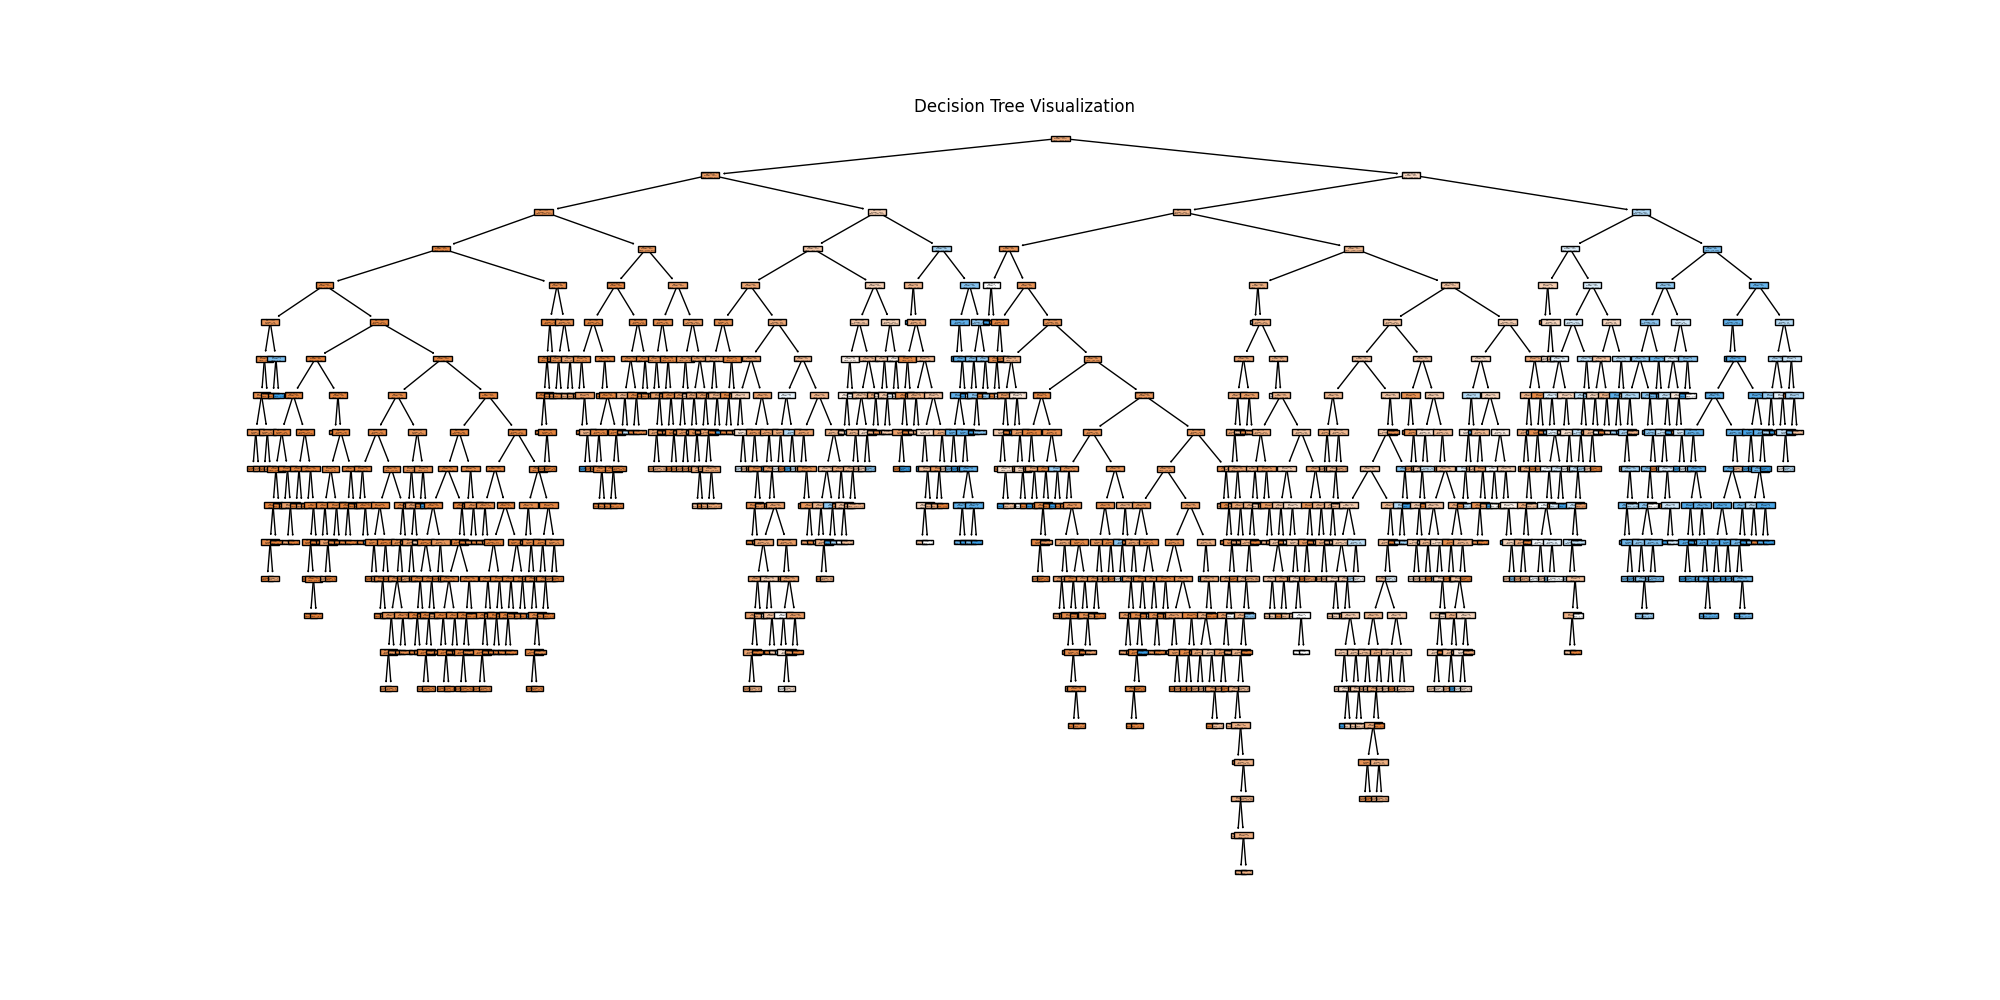
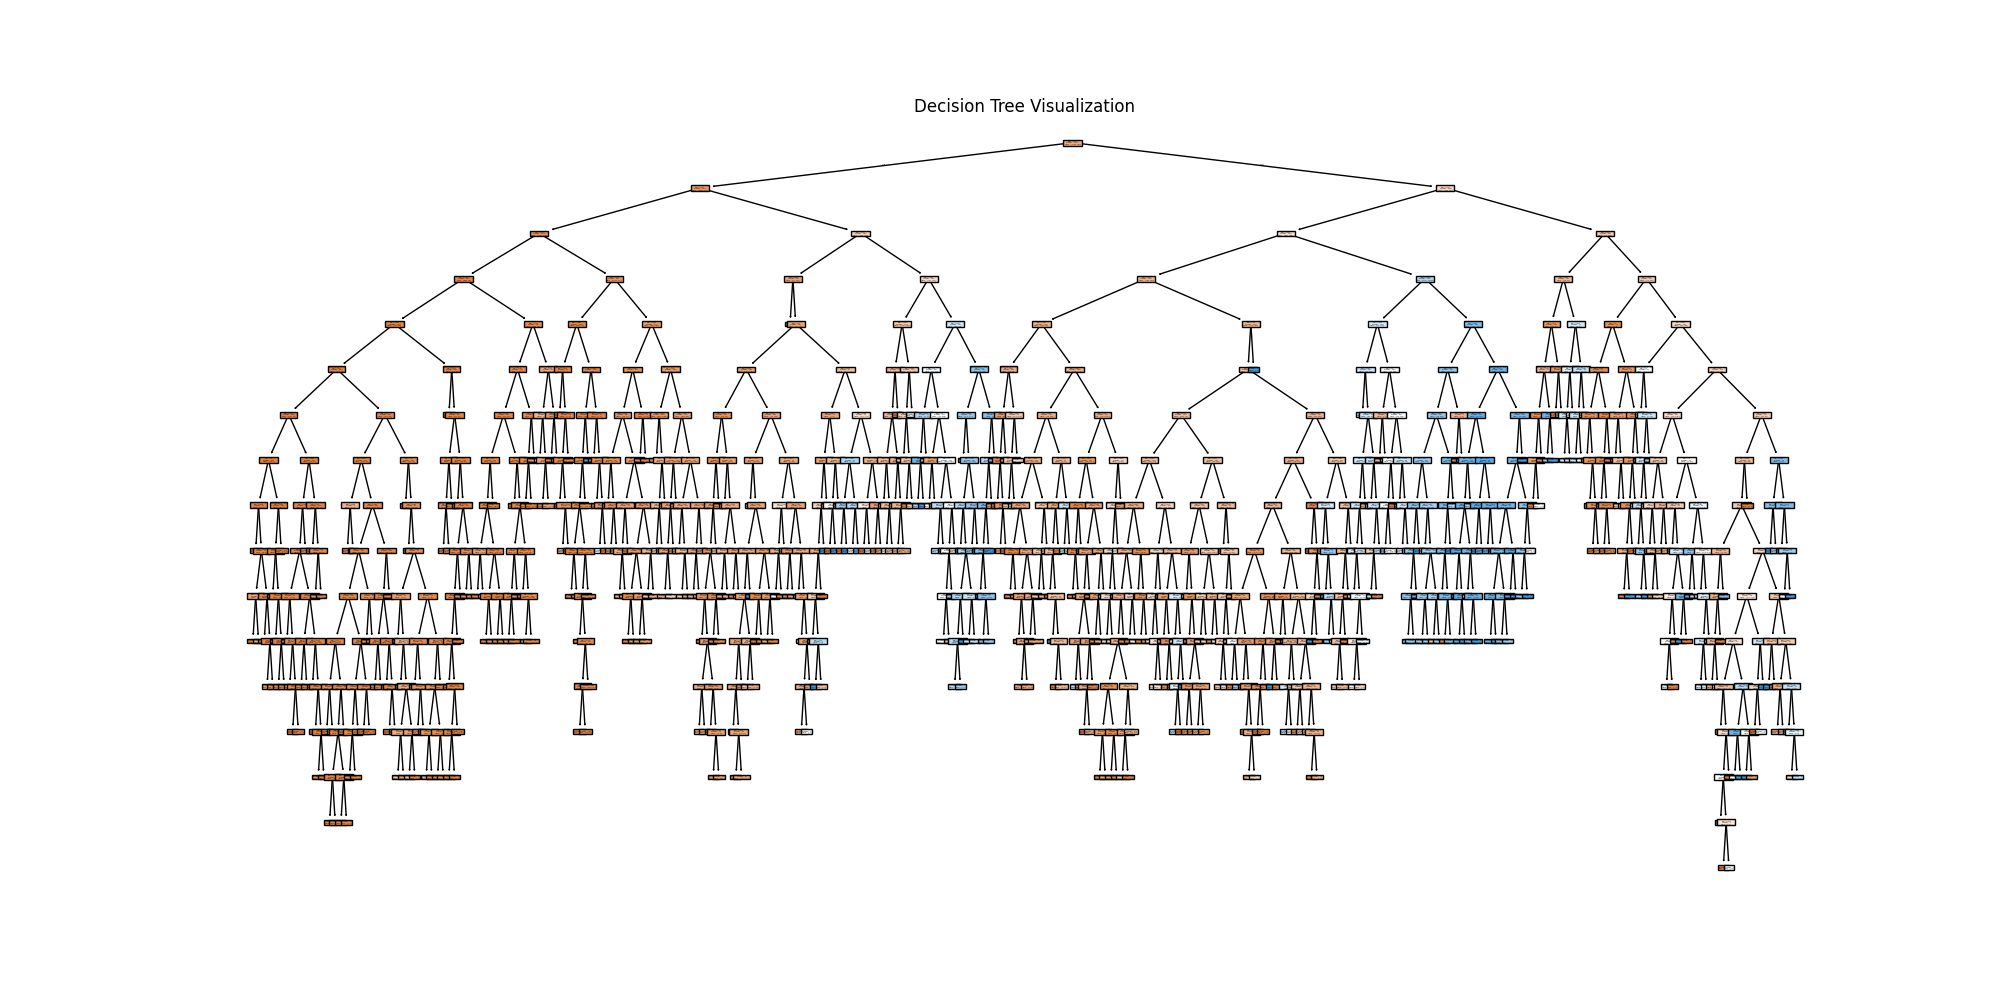
simplify 03_04

diff --git a/src/03_04_solution.py b/src/03_04_solution.py
@@ -3,24 +3,31 @@ from sklearn.datasets import fetch_openml
 from sklearn.model_selection import train_test_split
 from sklearn.ensemble import RandomForestClassifier
 from sklearn.metrics import accuracy_score
-import shap
 import matplotlib.pyplot as plt
-import seaborn as sns
 from sklearn import tree
+import shap
+import numpy as np
+np.seterr(divide='ignore', invalid='ignore')
 
 # Load the dataset
 adult_data = fetch_openml('adult', version=2, as_frame=True)
 df = adult_data.frame
 
-# Selecting features for interaction analysis
+# Handling missing values
+df.dropna(inplace=True)
+
+# Encode categorical variables
+df = pd.get_dummies(df, drop_first=True)
+
+# Select key features for transparency
 selected_features = ['education-num', 'hours-per-week']
 X = df[selected_features]
-y = df['class']
+y = df['class_>50K']
 
 # Split the data into training and testing sets
 X_train, X_test, y_train, y_test = train_test_split(X, y, test_size=0.3, random_state=42)
 
-# Train the model
+# Train a RandomForestClassifier model
 model = RandomForestClassifier(random_state=42)
 model.fit(X_train, y_train)
 
@@ -30,20 +37,28 @@ tree.plot_tree(model.estimators_[0], feature_names=selected_features, filled=Tru
 plt.title("Decision Tree Visualization")
 plt.savefig('output/03_04_solution_decision_tree.png')
 
-# Explain a single prediction
-explainer = shap.TreeExplainer(model)
-shap_values = explainer.shap_values(X_test)
+# Evaluate model accuracy
+model_accuracy = accuracy_score(y_test, model.predict(X_test))
 
-# Choose an instance to explain
-instance_index = 0
-shap.force_plot(explainer.expected_value[1], shap_values[1][instance_index,:], X_test.iloc[instance_index,:], feature_names=selected_features, show=False)
-plt.savefig('output/03_04_solution_local_explanation.png')
-
-# Example of creating a summary report (this would be more detailed in a real-world scenario)
-# This could be exported as a PDF, HTML report, or integrated into a dashboard.
+# Generate a basic transparency report with feature names
 with open('output/03_04_solution_transparency_report.txt', 'w') as report_file:
     report_file.write("Model Transparency Report\n")
     report_file.write("=========================\n")
-    report_file.write(f"Model Accuracy: {accuracy_score(y_test, model.predict(X_test))}\n")
-    report_file.write(f"Feature Importances: {model.feature_importances_}\n")
-    report_file.write("See attached SHAP summary plots and local explanations for detailed insights.\n")
+    report_file.write(f"Model Accuracy: {model_accuracy}\n")
+    report_file.write("Feature Importances:\n")
+    for feature, importance in zip(selected_features, model.feature_importances_):
+        report_file.write(f"- {feature}: {importance}\n")
+
+print("Report saved to output/03_04_solution_transparency_report.txt")
+
+# SHAP explanation for a single prediction
+explainer = shap.TreeExplainer(model)
+shap_values = explainer.shap_values(X_test)
+
+# Choose an instance to explain (e.g., first instance in the test set)
+instance_index = 0
+shap.force_plot(explainer.expected_value[1], shap_values[1][instance_index], X_test.iloc[instance_index], feature_names=selected_features, matplotlib=True)
+plt.title("SHAP Force Plot for First Instance")
+plt.savefig('output/03_04_solution_shap_force_plot.png')
+
+print("SHAP force plot saved to output/03_04_solution_shap_force_plot.png")
